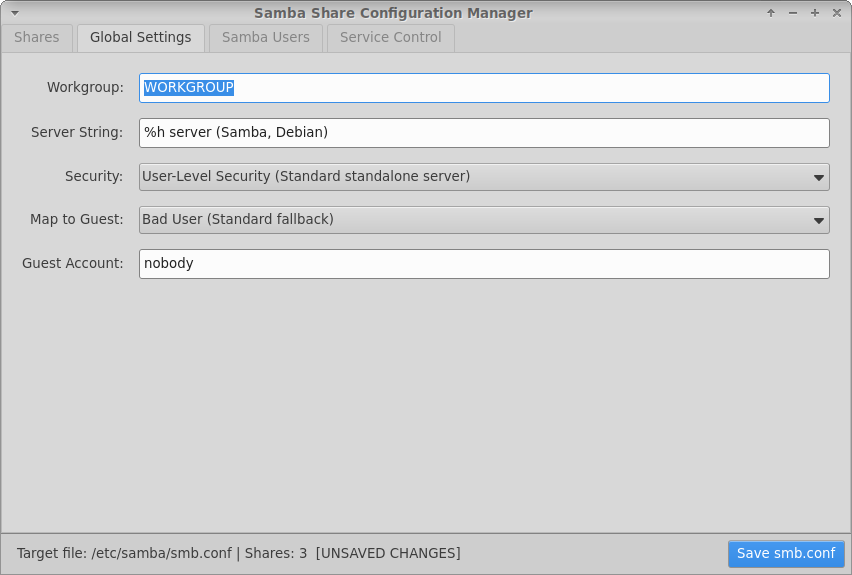
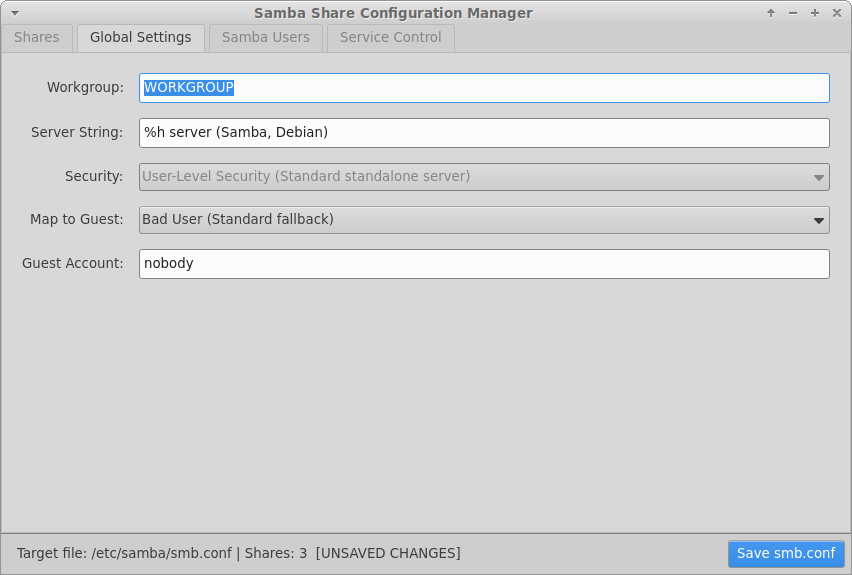
Update screenshots and documentation

Changed region(s): [[0.0, 0.0, 1.0, 0.0296], [0.1526, 0.2957, 0.5493, 0.3252]]

diff --git a/README.md b/README.md
@@ -3,9 +3,9 @@
 Modern GTK 4 graphical interface for managing Samba shares and users, tailored specifically for containerized Linux environments.
 
 ## Purpose & Environment
-Samba Manager is designed to run inside **Termux PRoot-Distro (Debian)** on Android. It provides a native GTK 4 interface to manage file sharing directly on your device, bypassing the need for host device rooting or full Linux desktop init stacks.
+Samba Manager is designed to run inside **Termux PRoot-Distro (Debian)** on Android. It provides a native GTK 4 interface to manage file sharing directly on your device, bypassing the need for host device rooting or full Linux desktop init stacks. It also runs on a regular Linux desktop.
 
-**Requirements:** GTK **4.10 or newer** (the app uses `Gtk.AlertDialog` and `Gtk.FileDialog`). On startup it checks the GTK version and exits with a clear message if it is too old.
+**Requirements:** GTK **4.10 or newer** (the app uses `Gtk.AlertDialog`, `Gtk.FileDialog`, `Gtk.FileLauncher` and `Gtk.DropDown`). On startup it checks the GTK version and exits with a clear message if it is too old.
 
 ## Visual Interface Overview
 
@@ -13,11 +13,11 @@ Here is a look at Samba Manager's interface across its primary tabs:
 
 * **Shares Management Tab:** View, add, edit, or delete shares, file paths, read-only status, guest access permissions, valid users, and directory masks.
   ![Shares Tab](images/Screenshot_2026-10-06_09-01-53.png)
-* **Edit Share Dialog:** Fine-tune individual share parameters including share name, target directory path, comments, access toggles, file/directory masks, and force user mappings.
+* **Edit Share Dialog:** Fine-tune individual share parameters including share name, target directory path (with an inline warning if it is missing or not a directory), comments, access toggles, file/directory masks, an optional **Force Permissions** switch, valid users (users and groups), and force user mappings. **Open Folder** opens the path in your file manager.
   ![Edit Share](images/Screenshot_2026-10-06_09-02-53.png)
 * **Global Settings Tab:** Configure server-wide options like workgroups, server strings, security modes, map-to-guest behaviors, and guest accounts.
   ![Global Settings](images/Screenshot_2026-10-06_09-03-20.png)
-* **Samba Users Tab:** Add local Samba accounts, modify user passwords, or delete users directly from the graphical list.
+* **Samba Users Tab:** Add local Samba accounts (type-ahead field, see below), modify user passwords, or delete users directly from the graphical list.
   ![Samba Users](images/Screenshot_2026-10-06_09-03-35.png)
 * **Service Control Tab:** Monitor live daemon status (`Running`), start, stop, or restart the service, and review step-by-step execution logs.
   ![Service Control](images/Screenshot_2026-10-06_09-04-01.png)
@@ -25,19 +25,47 @@ Here is a look at Samba Manager's interface across its primary tabs:
 ## Architecture & Security Model
 To keep configuration predictable, lightweight, and container-friendly, Samba Manager enforces key security defaults in `/etc/samba/smb.conf`:
 
-- **User Security (`security = user`):** Security is set to `user` mode. Other Samba auth modes (`ADS`, `DOMAIN`, `SERVER`) are not offered. If an existing `smb.conf` already uses a different mode, the app shows a "Keep existing" choice so saving never silently overwrites it. All share access relies exclusively on local Samba user accounts managed via `smbpasswd` and `pdbedit`.
+- **User Security (`security = user`):** Security is set to `user` mode. Other Samba auth modes (`ADS`, `DOMAIN`, `SERVER`) are not offered. If an existing `smb.conf` already uses a different mode, the app shows a "Keep existing" choice so saving never silently overwrites it. When user-level is the only option, the Security dropdown is greyed out because there is nothing to choose. All share access relies exclusively on local Samba user accounts managed via `smbpasswd` and `pdbedit`.
 - **Configurable Guest Account:** Guest and anonymous access can be configured directly from the Global Settings tab (defaulting to `nobody` with system user validation).
-- **Direct Daemon Management:** Does not rely on `systemctl` in PRoot. Starting tries `service`, the init script, then `smbd -D` directly, clearing stale PID files in `/var/run/samba` first and reading `/proc` to check process status. The app waits up to 8 seconds for the daemon to reach the expected state, stops after the first method that succeeds (so a second `smbd` is never launched), and falls back to signalling `smbd` directly if `pkill` is unavailable.
-- **Automated Config Reloads:** Reloads running configuration changes on save via `smbcontrol all reload-config`.
+- **Direct Daemon Management:** Does not rely on `systemctl` in PRoot. Starting tries `service`, the init script, then `smbd -D` directly, clearing stale PID files in `/var/run/samba` first and reading `/proc` to check process status. The app waits up to 8 seconds for the daemon to reach the expected state, stops after the first method that succeeds (so a second `smbd` is never launched), and falls back to signalling `smbd` directly if `pkill` is unavailable. On systems where systemd is actually running (a normal desktop), the status display asks `systemctl is-active` instead. Status is polled in a background thread, so the window never stalls.
+- **Automated Config Reloads:** Reloads running configuration changes on save via `smbcontrol all reload-config`. Whether the reload worked is decided by the command's exit status, and the result (or a "daemon not running" note) is shown in the save dialog.
+
+### Privileges
+Everything that needs root (writing `smb.conf`, `smbpasswd` / `pdbedit`, service control, creating share directories, reloading) lives in one small privileged helper: `app.py --helper`.
+
+- **Running as root (recommended in PRoot):** launch with `sudo -E python3 /opt/samba_manager/app.py`. The helper code then runs inside the same process and no extra prompt appears.
+- **Running as a normal user (regular Linux desktop):** the window opens as you, and the helper is started through `pkexec` (polkit). You authenticate once at launch and the helper is reused for the rest of the session. Passwords are sent to it over a pipe, never on a command line. If `pkexec` is not installed the app says so and exits. `pkexec` is normally not available inside PRoot, so use the root launch there.
+- **Limits of the helper:** it only ever writes `/etc/samba/smb.conf`, and only accepts the fixed set of operations the app uses.
+- **Install permissions:** because `pkexec` runs `app.py` as root, keep `/opt/samba_manager` owned by root and not writable by other users. `sudo make install` does this.
 
 ### Safe saving
-- `smb.conf` is written to a temporary file, validated with `testparm -s`, then swapped in atomically. If validation fails, nothing is written and the error is shown.
+- `smb.conf` is written to a temporary file, validated with `testparm -s`, then swapped in atomically. If validation fails, nothing is written and the error is shown. Warnings that `testparm` prints even when the file is accepted are shown in the save dialog.
 - Before each overwrite, a timestamped backup (`smb.conf.bak-YYYYmmdd-HHMMSS`) is kept next to the original; the 10 most recent are retained.
-- Existing comments, formatting, unknown options and Samba parameter aliases (`writable`, `browsable`, `public`, ...) are preserved or normalised rather than duplicated.
+- Existing comments, formatting, unknown options and Samba parameter aliases (`writable`, `browsable`, `public`, ...) are preserved or normalised rather than duplicated. Sections the app creates are separated by a blank line; existing sections, and the comments sitting above them, are left exactly as they were.
 - If `smb.conf` cannot be parsed, the app refuses to start editing it instead of risking an overwrite. If the file is missing, the app starts from defaults and creates it on save.
 
 ### Share directories
 Creating a share directory or changing its permissions is deferred until you click **Save smb.conf**. An existing directory's mode is only changed if you explicitly pick a different directory mask. Masks the app does not recognise (for example `0775`) appear as "Custom / Do not change" and are left untouched.
+
+When a new directory is created, it is owned by the share's **Force User** (and that user's primary group), so a share with `force user` is writable straight away. Missing parent directories are created too, with mode `0755`. If the force user does not exist, the directory is still created, owned by root, and you get a warning.
+
+### Share defaults
+- **Read Only:** a share with no `read only` setting is shown as read-only, matching Samba's own default. Editing and saving such a share keeps it read-only unless you switch it off.
+
+### Permission masks
+The dialog writes `create mask` and `directory mask` by default. The **Force Permissions** switch additionally writes `force create mode` and `force directory mode` with the same values, so new files and folders always have at least those bits (handy for group-shared folders). With it off, those two options are removed. Mask and force options already in the file are only rewritten if you change the masks or the switch in the dialog.
+
+### Valid users and groups
+The **Manage Users** picker builds the share's `valid users` line.
+
+- The Available list shows your Samba users and the system's regular groups (GID 1000 and up, shown as `@groupname`).
+- Type any name into the box at the bottom to add it by hand, for example `alice`, `@staff`, `+staff` or `&netgroup`.
+- Meaning of the prefixes (from `smb.conf`): `@name` is looked up as a NIS netgroup first, then as a Unix group; `+name` means Unix group only; `&name` means NIS netgroup only.
+- A group decides who is **allowed**. Each member still needs their own Samba user (with a password) to log in, and changes to group membership only affect connections made afterwards.
+- Groups served by LDAP/AD with enumeration turned off will not appear in the list. Type `@groupname` by hand.
+
+### Adding Samba users
+**Add User** uses a text field with type-ahead: as you type it suggests up to 8 matching system accounts. Suggestions are only a convenience, so this works with very large directories (500+ accounts). When you save, the name is checked against the system: it must be an existing account (create it first, for example with `sudo adduser NAME`), it cannot be `root`, and it cannot already be a Samba user (use **Change Password** for those).
 
 ## Required PRoot Configuration: `force user = root`
 PRoot emulates Linux namespaces via user-space translation over Android's file system storage. Because of UID/GID mapping boundaries between Android and the PRoot Debian container, network clients will often encounter **"Permission Denied"** errors when reading or writing to shared directories.
@@ -54,6 +82,8 @@ Setting `force user = root` causes the background `smbd` process to evaluate fil
 sudo apt update && sudo apt install -y samba smbclient python3-gi python3-gi-cairo gir1.2-gtk-4.0 python3-pip git make
 pip install configupdater --break-system-packages
 ```
+On a regular desktop where you do not launch the app as root, also install `pkexec` (polkit); it is not needed when running as root.
+
 ## Installation & Building
 
 ### 1. Clone the Repository
@@ -70,10 +100,16 @@ sudo make install
 ```
 
 ### Running
-Launch it from the desktop entry, or directly (the `-E` keeps your `DISPLAY` so the window can open, for example under Termux:X11):
+Launch it from the desktop entry, or directly. As root (the `-E` keeps your `DISPLAY` so the window can open, for example under Termux:X11):
 
 ```bash
 sudo -E python3 /opt/samba_manager/app.py
+```
+
+On a regular desktop with polkit you can also start it as your normal user and approve the administrator prompt:
+
+```bash
+python3 /opt/samba_manager/app.py
 ```
 
 ### Uninstallation

diff --git a/CHANGELOG.md b/CHANGELOG.md
@@ -1,0 +1,22 @@
+# Changelog
+
+## 2026-10-08
+
+### Changed
+- The GUI can now run as a normal user. Root-only work (saving `smb.conf`, `smbpasswd`/`pdbedit`, service control, share directory creation, config reload) goes through a `pkexec` helper (`app.py --helper`) that is started once per session. Running the whole app as root still works.
+- `create mask` / `directory mask` are written by default. The new **Force Permissions** switch controls `force create mode` / `force directory mode`. Existing masks are only rewritten when changed in the dialog.
+- Add User uses a type-ahead field instead of a list of every account, and validates the typed name on save.
+- `Gtk.ComboBoxText` replaced by `Gtk.DropDown`. The Security dropdown is greyed out when it has a single option.
+- Service status is polled in a background thread (uses `systemctl is-active` when systemd is running).
+- Reload success is decided by exit status; `testparm` warnings are shown in the save dialog.
+- The Dir Perms column shows `directory mask` (or the directory's real mode) instead of `create mask`.
+
+### Added
+- Valid Users picker lists system groups as `@group` and accepts typed names (`@group`, `+group`, `&netgroup`).
+- Inline warning when a share path is missing, not a directory, or not absolute.
+- Open Folder button now opens the share path in the file manager.
+
+### Fixed
+- `read only` now defaults to yes when unset, as in Samba. Editing a share no longer silently makes it writable.
+- Blank lines are only added before sections the app creates, so comments above existing sections stay attached.
+- New share directories (and missing parents) are created with the right mode and the leaf is chowned to the force user.
